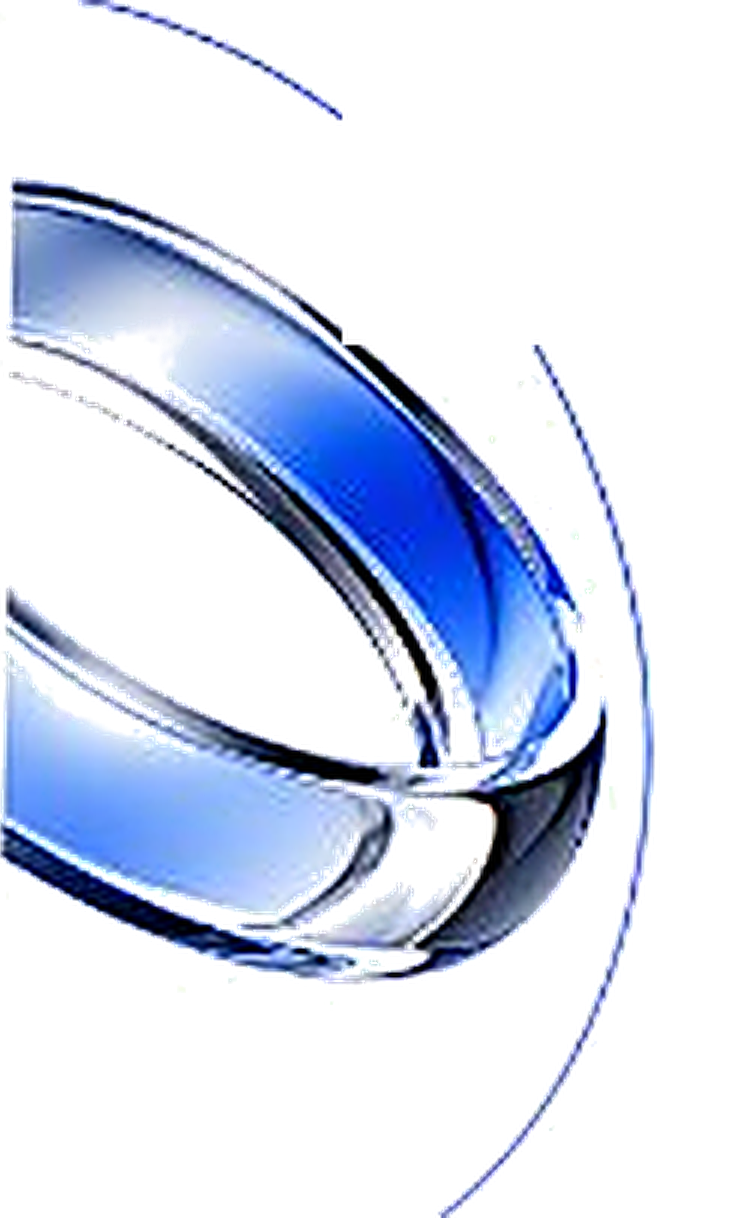
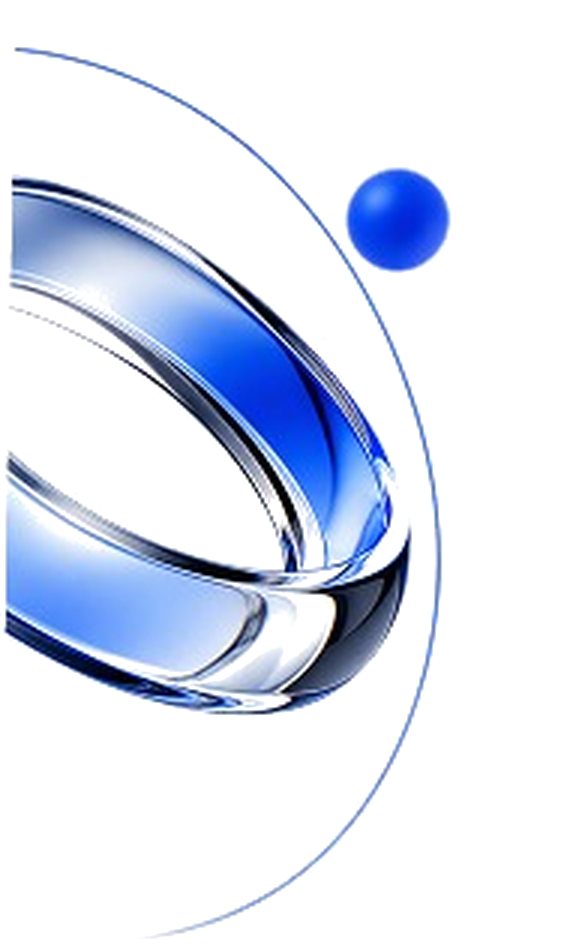
Fix portfolio image fit matching services page, add To Apply button to internship cards, and update hero side artwork

diff --git a/src/components/Hero.tsx b/src/components/Hero.tsx
@@ -20,10 +20,10 @@ export default function Hero({ onStartProject }: HeroProps) {
       <div className="hidden lg:block absolute left-0 top-6 xl:top-8 w-[160px] xl:w-[220px] 2xl:w-[260px] pointer-events-auto select-none z-10">
         <div className="animate-float-vertical cursor-pointer">
           <Image
-            src="/images/side_hero_left_v2.png"
-            alt="Abstract 3D Chrome Torus Artwork"
-            width={732}
-            height={1218}
+            src="/images/side_hero_left_v3.png"
+            alt="Futuristic 3D Glass Ring with Blue Floating Sphere"
+            width={588}
+            height={951}
             priority
             quality={100}
             className="w-full h-auto object-contain object-left block"
@@ -35,10 +35,10 @@ export default function Hero({ onStartProject }: HeroProps) {
       <div className="hidden lg:block absolute right-0 top-6 xl:top-8 w-[180px] xl:w-[240px] 2xl:w-[280px] pointer-events-auto select-none z-10">
         <div className="animate-float-vertical-reverse cursor-pointer">
           <Image
-            src="/images/side_hero_right_v2.png"
-            alt="Abstract 3D Glassmorphic Interface Artwork"
-            width={865}
-            height={1218}
+            src="/images/side_hero_right_v3.png"
+            alt="Futuristic 3D Glass Interface Browser Window"
+            width={576}
+            height={948}
             priority
             quality={100}
             className="w-full h-auto object-contain object-right block"

diff --git a/src/components/internship/InternshipPrograms.tsx b/src/components/internship/InternshipPrograms.tsx
@@ -6,11 +6,13 @@ import { PenTool, Megaphone, Code2, Check, ArrowUpRight } from "lucide-react";
 interface InternshipProgramsProps {
   onPayNow: (programTitle: string) => void;
   onTalkToTeam: (programTitle: string) => void;
+  onApply?: (programTitle: string) => void;
 }
 
 export default function InternshipPrograms({
   onPayNow,
   onTalkToTeam,
+  onApply,
 }: InternshipProgramsProps) {
   const programs = [
     {
@@ -159,6 +161,16 @@ export default function InternshipPrograms({
                       <span>Talk to Our Team</span>
                     </button>
                   </div>
+
+                  {/* Full width To Apply button matching design reference */}
+                  <button
+                    type="button"
+                    onClick={() => onApply ? onApply(program.title) : onPayNow(program.title)}
+                    className="w-full mt-3 inline-flex items-center justify-center gap-1.5 px-5 py-2.5 rounded-full bg-blue-600 hover:bg-blue-700 text-white font-medium text-sm transition-all duration-200 shadow-sm hover:scale-[1.01] active:scale-[0.98] cursor-pointer"
+                  >
+                    <span>To Apply</span>
+                    <ArrowUpRight className="w-4 h-4" />
+                  </button>
                 </div>
               </div>
             );

diff --git a/src/app/internship/page.tsx b/src/app/internship/page.tsx
@@ -23,6 +23,11 @@ export default function InternshipPage() {
     window.open("https://razorpay.me/@duhzineitsolutionsprivatelimi", "_blank", "noopener,noreferrer");
   };
 
+  const handleApply = (programTitle: string) => {
+    setSelectedProgram(programTitle);
+    setEnrollModalOpen(true);
+  };
+
   const handleTalkToTeam = () => {
     setProjectModalOpen(true);
   };
@@ -39,6 +44,7 @@ export default function InternshipPage() {
       <InternshipPrograms
         onPayNow={handlePayNow}
         onTalkToTeam={handleTalkToTeam}
+        onApply={handleApply}
       />
 
       {/* 4-Step Intern Hiring Process */}
